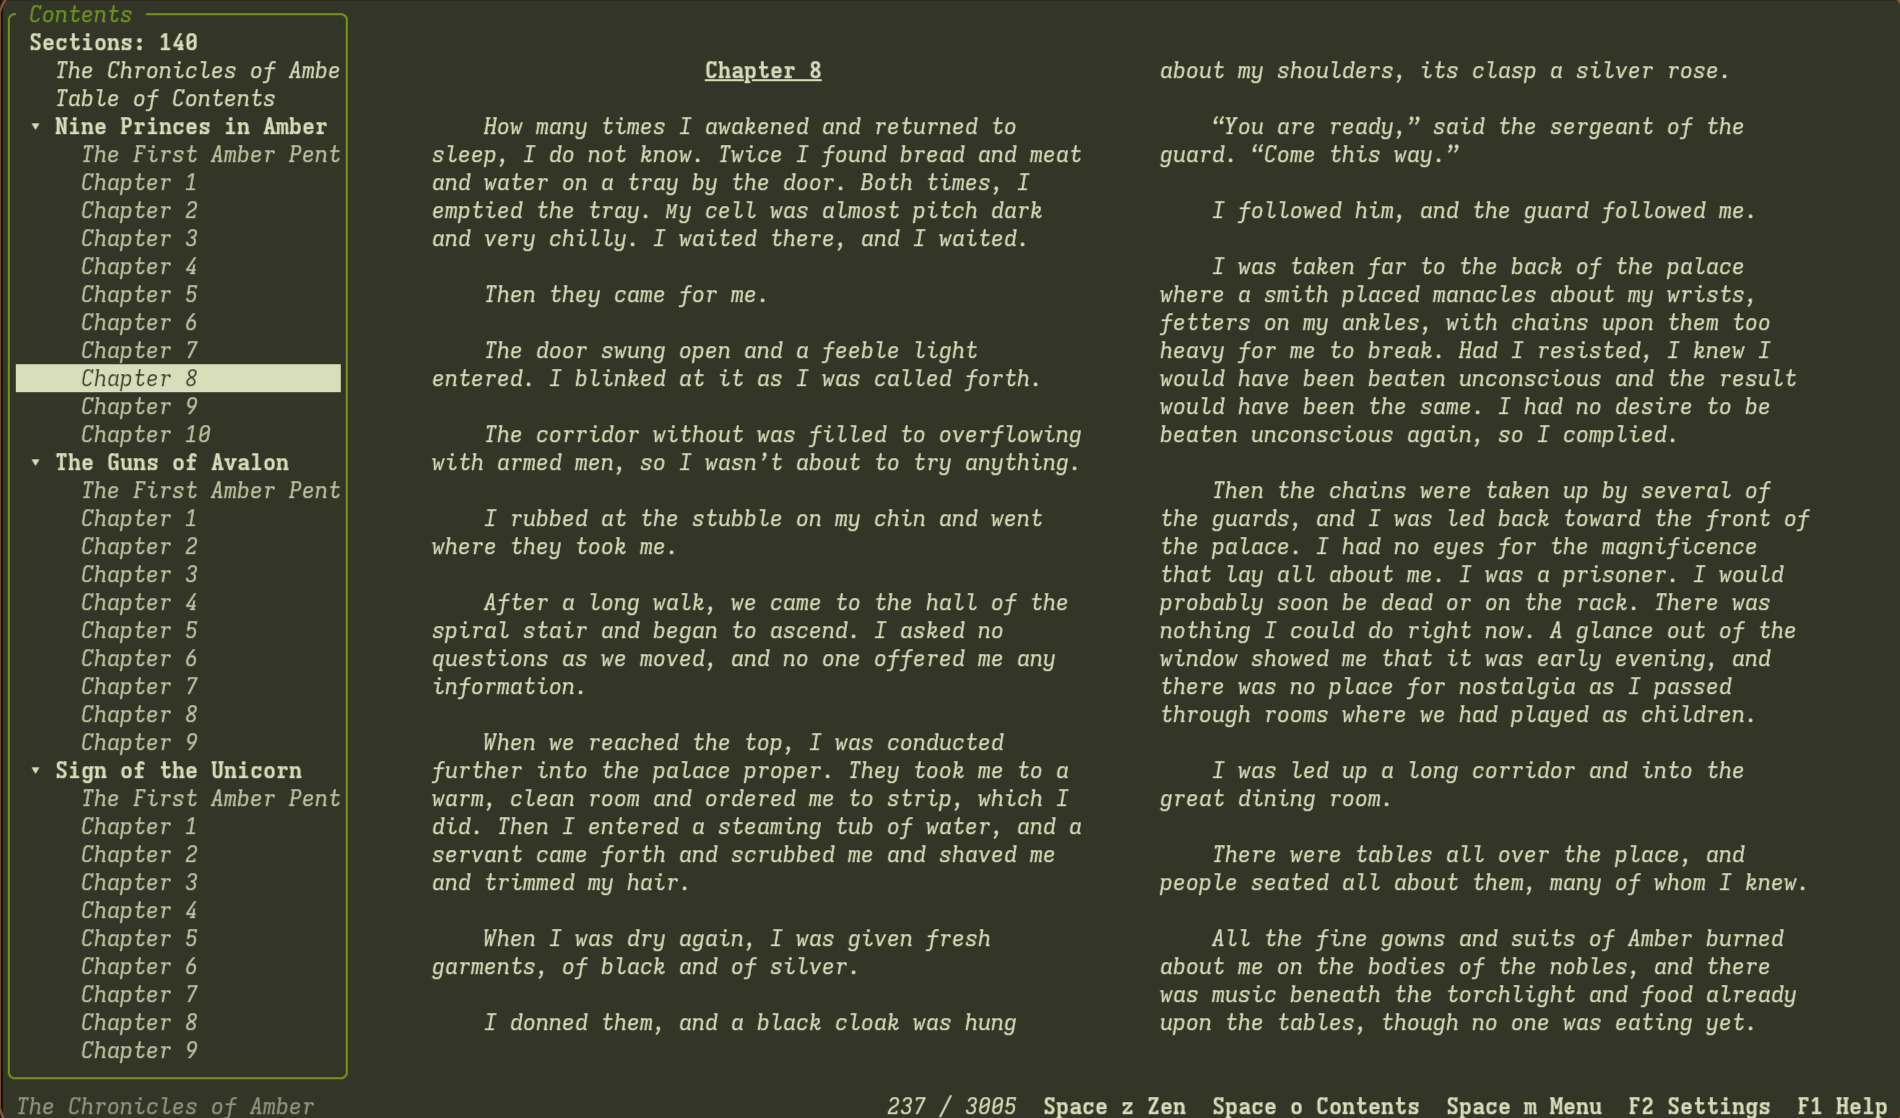
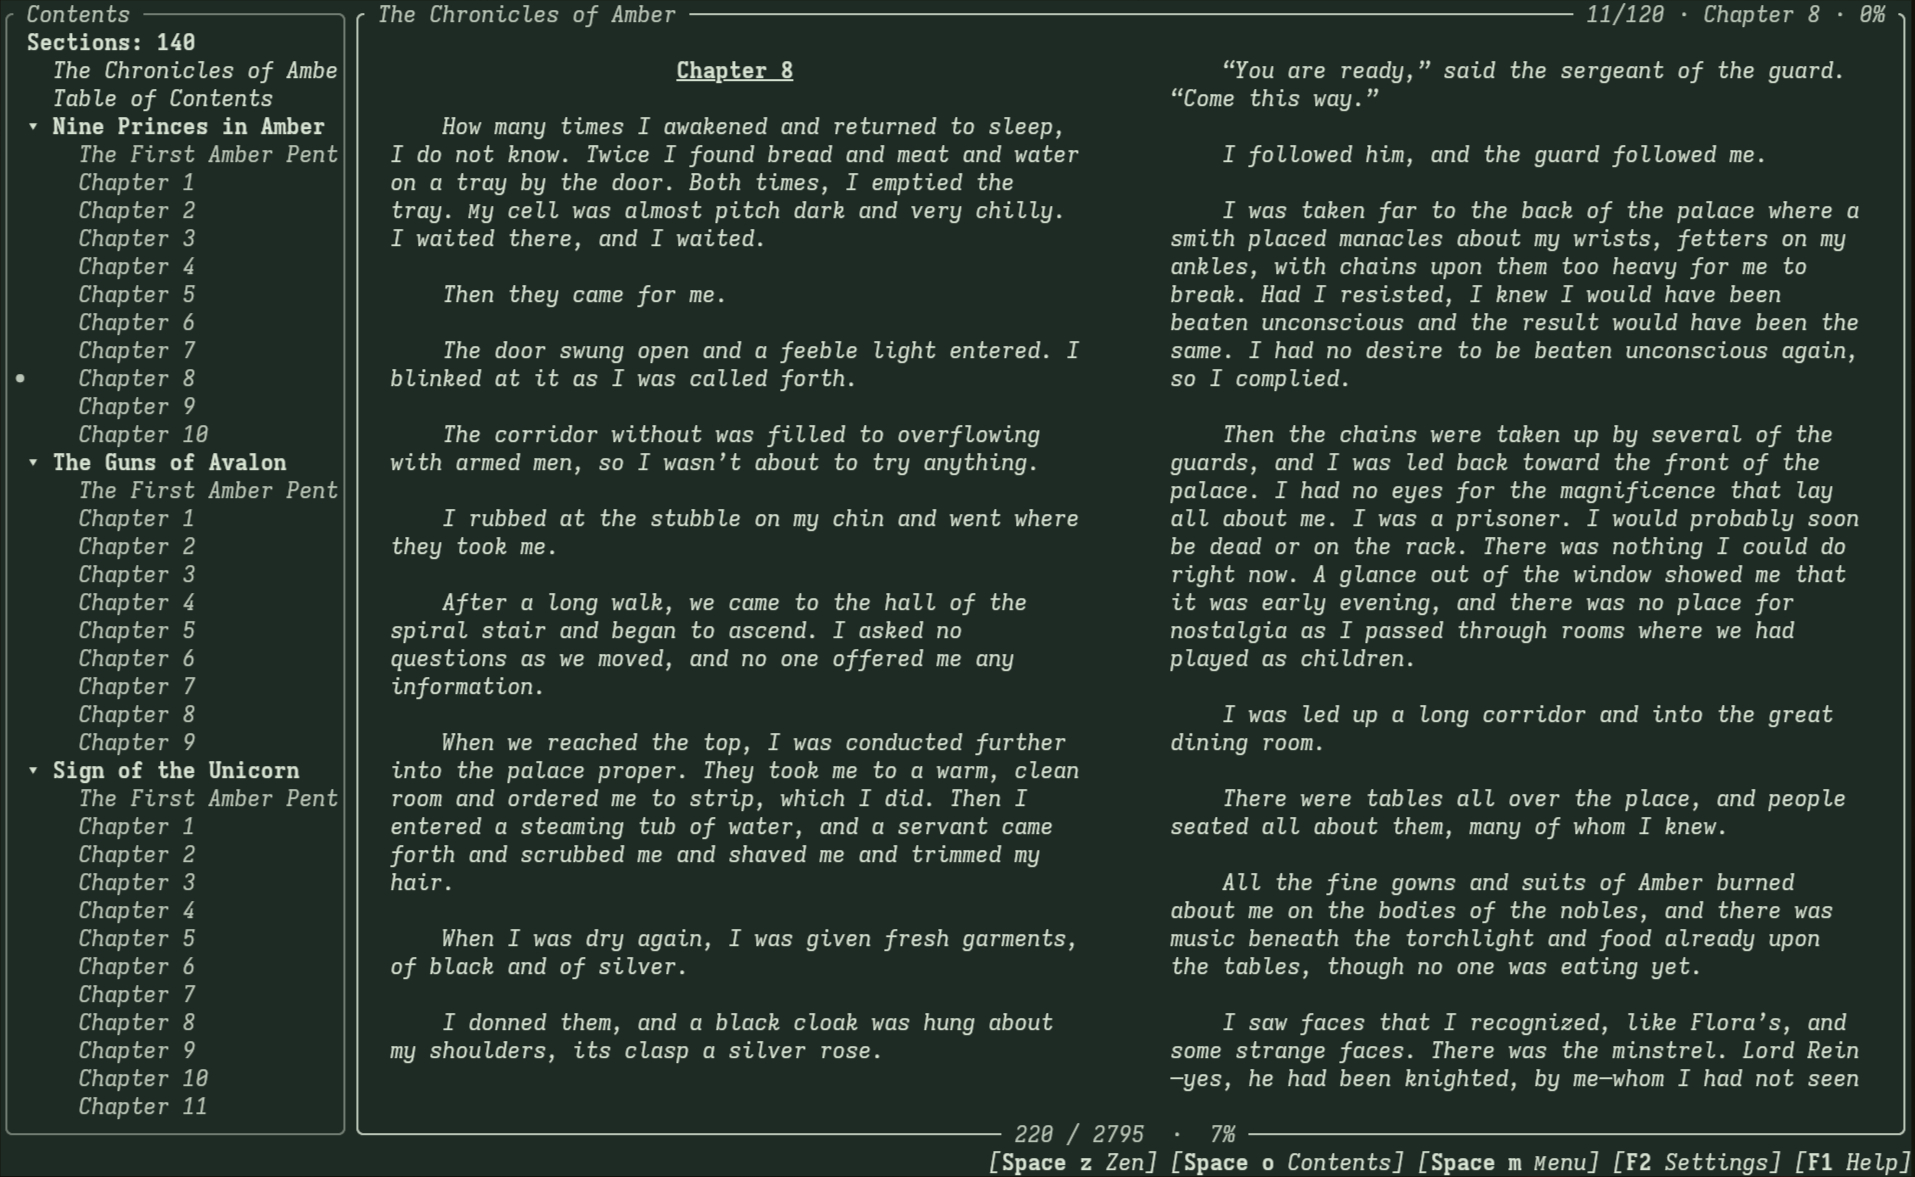
Refresh reading and desktop screenshots in both READMEs

Changed region(s): [[0.0, 0.0, 1.0, 1.0]]

diff --git a/README.md b/README.md
@@ -57,14 +57,14 @@ Click any image to open it at full size.
       <strong>Word definitions</strong><br><sub>Look up a selected word while reading</sub>
     </td>
     <td width="50%" valign="top">
-      <a href="docs/images/text-context-menu.png"><img src="docs/images/text-context-menu.png" alt="Selected text and context menu beside an EPUB illustration"></a><br>
-      <strong>Text context menu</strong><br><sub>Copy, highlight, search, translate or add a note</sub>
+      <a href="docs/images/illustrated-spread.png"><img src="docs/images/illustrated-spread.png" alt="Two-page EPUB spread with an illustration of three riders on the left page"></a><br>
+      <strong>Illustrated spread</strong><br><sub>Chapter progress above, book progress below</sub>
     </td>
   </tr>
   <tr>
     <td width="50%" valign="top">
-      <a href="docs/images/reading-contents.png"><img src="docs/images/reading-contents.png" alt="Contents sidebar, illustrated spread and text selection menu"></a><br>
-      <strong>Contents and illustrations</strong><br><sub>Chapter navigation alongside the illustrated book</sub>
+      <a href="docs/images/reading-contents.png"><img src="docs/images/reading-contents.png" alt="Contents sidebar and a selected passage in an illustrated book on Tibetan medicine"></a><br>
+      <strong>Contents and text selection</strong><br><sub>Copy, highlight or translate the selected passage</sub>
     </td>
     <td width="50%" valign="top">
       <a href="docs/images/bookorbit-shelf.png"><img src="docs/images/bookorbit-shelf.png" alt="BookOrbit library navigation and grid of book covers"></a><br>
@@ -153,7 +153,7 @@ Keywords=books;reader;
 
 When opening a file directly, **q** returns to its folder with the book selected. Press **q** again to move up one directory at a time to `/`, then to the source chooser. The configured library path is preserved.
 <p align="center">
-  <img src="docs/images/kitty-fonts.png" width="50%" alt="fonts in kitty terminal">
+  <img src="docs/images/kitty-fonts.png" width="50%" alt="The Chronicles of Amber open in Kitty with an italic reading font">
 </p>
 
 ## Libraries
